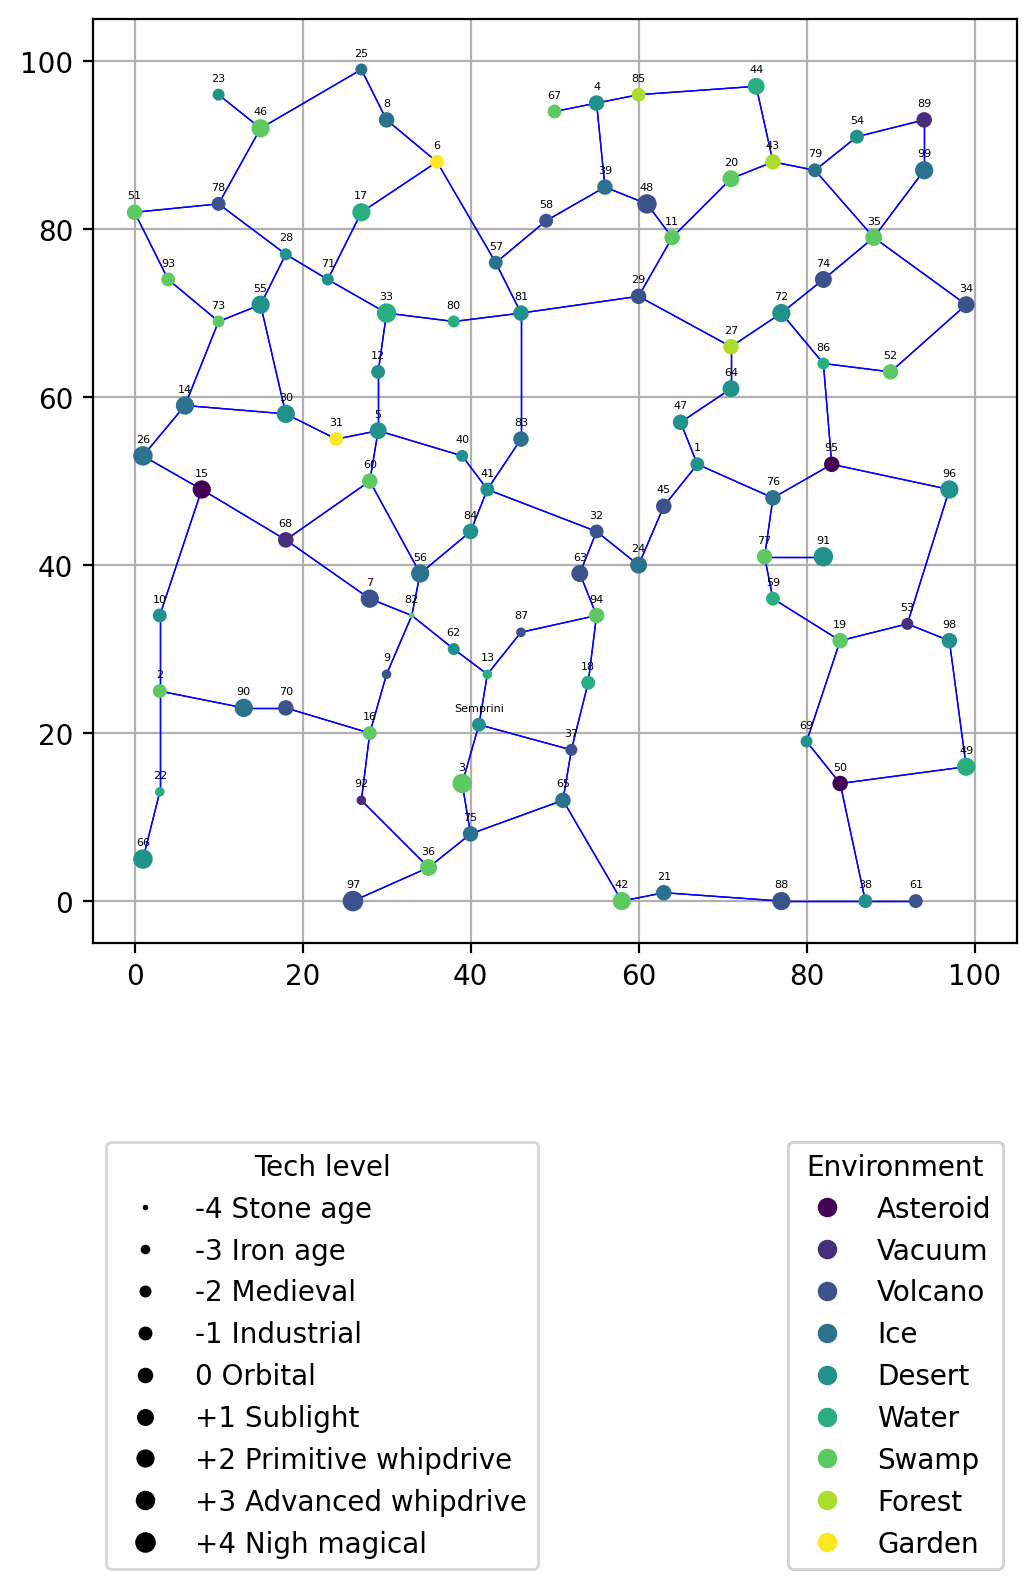
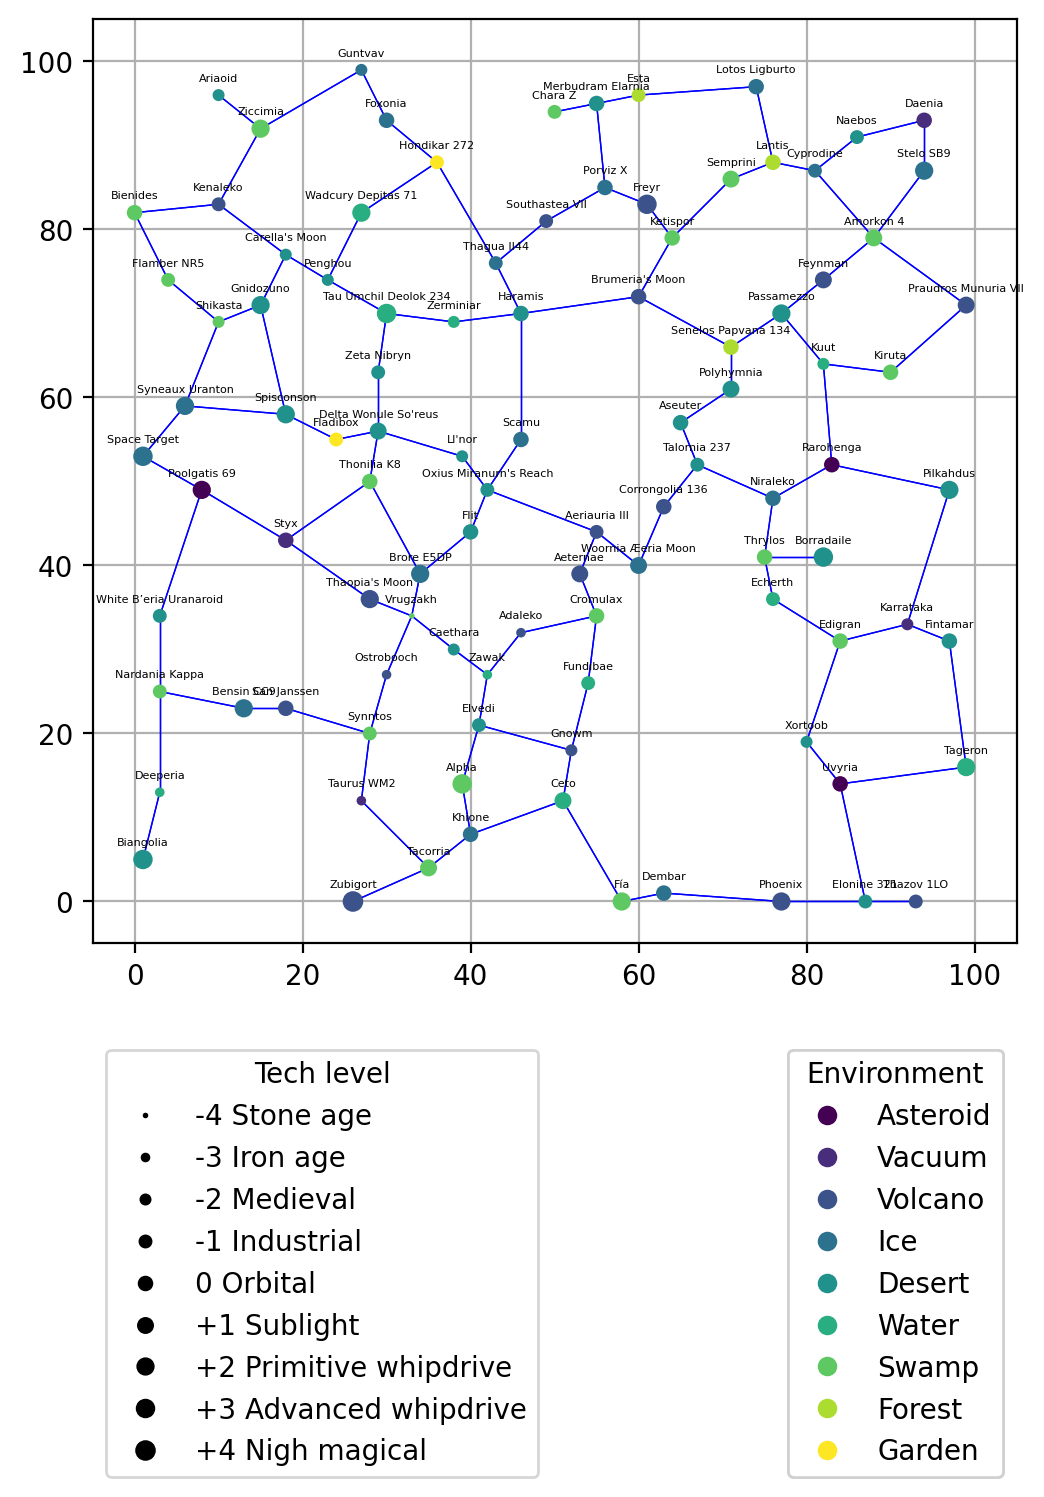
Named all remaining planets.

diff --git a/starmap.py b/starmap.py
@@ -74,15 +74,19 @@ class Starmap:
         d = self.data
         ax = plt.figure(figsize=(6, 6), dpi=200).add_subplot()
         ax.set_aspect('equal')
+        # Entire map
         plt.xlim([-5, 105])
         plt.ylim([-5, 105])
+        # Specific region
+        # plt.xlim([35, 90])
+        # plt.ylim([-5, 50])
         plt.grid()
         # Plot whiplines
         for a in d['ID']:
             for b in d.iloc[a]['Whiplines']:
                 plt.plot(*zip(d.iloc[a]['Coordinates'], d.iloc[b]['Coordinates']), 'b', linewidth=0.5)
         # Plot names of systems
-        for n, c in zip(d['Name'], d['Coordinates']):
+        for n, c in zip(d['Name'], d['Coordinates']):  # Size 4 works if you want the entire map
             plt.annotate(n, c, textcoords='offset points', xytext=(0, 5), ha='center', size='4', zorder=3)
         # Plot systems, with size based on tech level and color on environment
         sizes = [1 + 5 * TECH_LEVELS.index(t) for t in d['Tech level']]
@@ -90,11 +94,11 @@ class Starmap:
         scatter = plt.scatter(*zip(*d['Coordinates']), c=colors, s=sizes, zorder=2)
         tech_labels = [t for t in TECH_LEVELS if any(d['Tech level'] == t)]
         legend1 = ax.legend(scatter.legend_elements(prop='sizes')[0], tech_labels,
-                            loc='upper left', title="Tech level", bbox_to_anchor=(0, -0.2))
+                            loc='upper left', title="Tech level", bbox_to_anchor=(0, -0.1))
         ax.add_artist(legend1)
         env_labels = (e for e in ENVIRONMENTS if any(d['Environment'] == e))
         legend2 = ax.legend(scatter.legend_elements(prop='colors')[0], env_labels,
-                            loc='upper right', title="Environment", bbox_to_anchor=(1, -0.2))
+                            loc='upper right', title="Environment", bbox_to_anchor=(1, -0.1))
         ax.add_artist(legend2)
         plt.savefig(filename, bbox_inches='tight')
         plt.show()
@@ -109,5 +113,4 @@ if __name__ == '__main__':
     # m = Starmap(n=100)  # Generate a new starmap
     m = Starmap(filename='starmap.csv')  # Read a saved starmap
     m.plot('starmap.png')
-    m.save('starmap.csv')
-
+    # m.save('starmap.csv')
